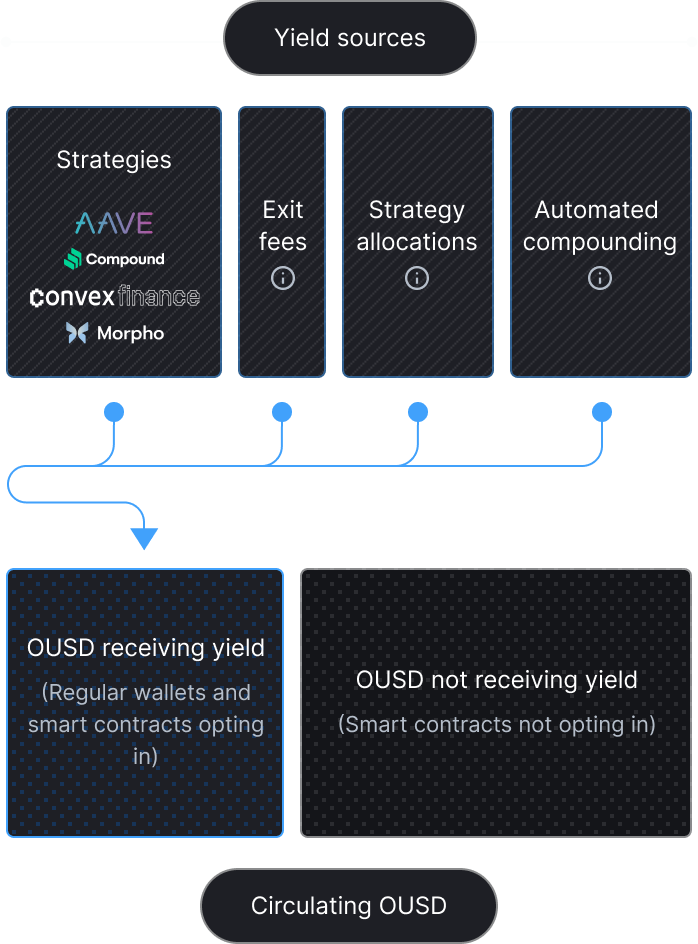
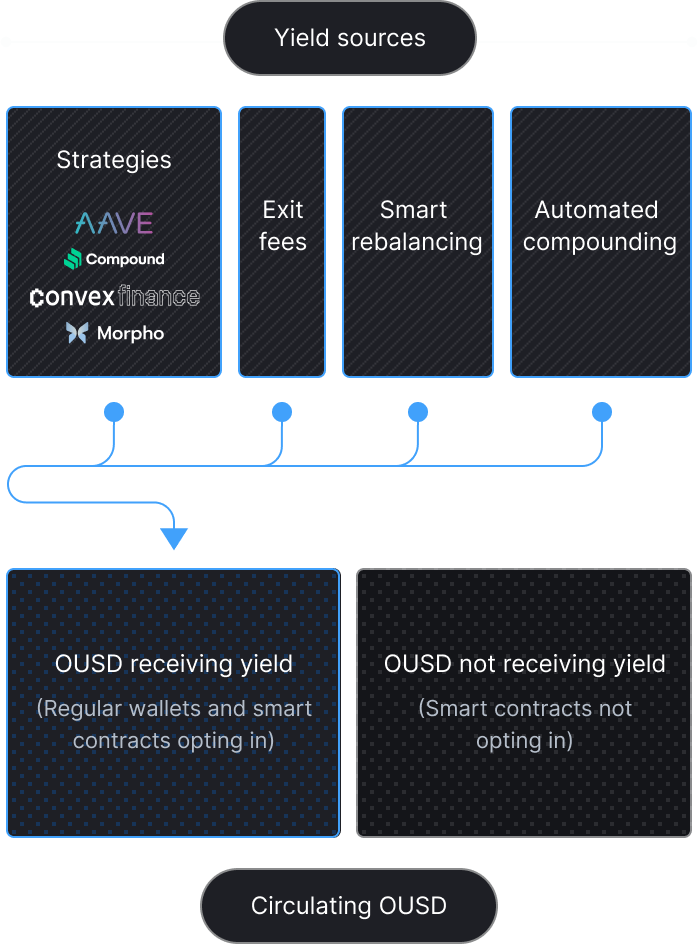
changes to not so secret sauce

diff --git a/src/components/SecretSauce.tsx b/src/components/SecretSauce.tsx
@@ -1,3 +1,4 @@
+import { Typography } from "@originprotocol/origin-storybook";
 import Image from "next/image";
 import React from "react";
 import { useViewWidth } from "../hooks";
@@ -12,11 +13,11 @@ function SecretSauce() {
 
   return (
     <section className="px-4 sm:px-8 md:px-16 lg:px-[8.375rem] bg-origin-bg-dgrey">
-      <div className="relative max-w-[89.5rem] py-14 md:py-[120px] h-fit mx-auto flex flex-col lg:flex-row justify-center items-center">
+      <Typography.H3 className="pt-14 md:pt-[120px] mb-4 md:mb-20 w-full text-center">
+        Not-so-secret sauce
+      </Typography.H3>
+      <div className="relative max-w-[89.5rem]  h-fit mx-auto flex flex-col lg:flex-row justify-center items-center">
         <div className="lg:w-3/5 xl:w-1/3 mb-12 lg:mb-0 lg:mr-24">
-          <h3 className="font-sansSailec font-medium text-5xl 2xl:text-6xl mb-6 lg:mb-10">
-            Not-so-secret sauce
-          </h3>
           <p className="font-sansInter font-normal text-base xl:text-lg mb-6">
             Multiple factors contribute to OUSD outperforming its underlying
             strategies, but there&apos;s one big one. While 100% of the
@@ -34,7 +35,11 @@ function SecretSauce() {
             of letting it go to waste. Any smart contract can opt in to receive
             yield, but the reality is that much of OUSD&apos;s supply is held in
             AMMs where liquidity providers are motivated to forego their yield
-            in exchange for other incentives.
+            in exchange for other incentives. <br />
+            <br /> Additional sources of OUSD’s above-market yield include exit
+            fees, smart rebalancing, and automated compounding. As the protocol
+            grows, OUSD holders enjoy greater economies of scale with the cost
+            of funds management spread out over a larger pool of users.
           </p>
         </div>
         <div
